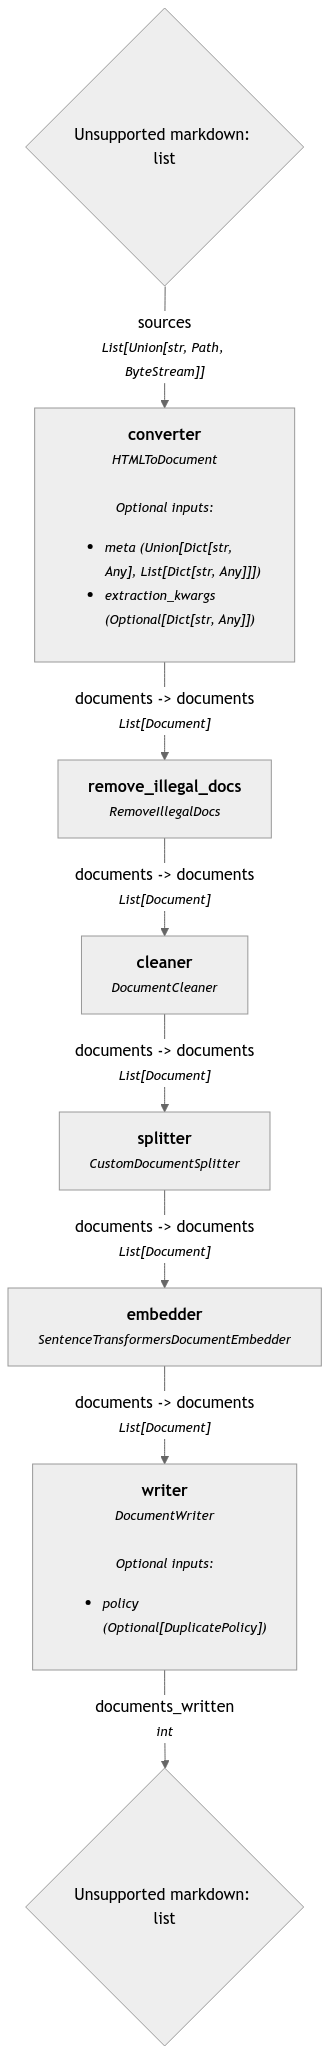
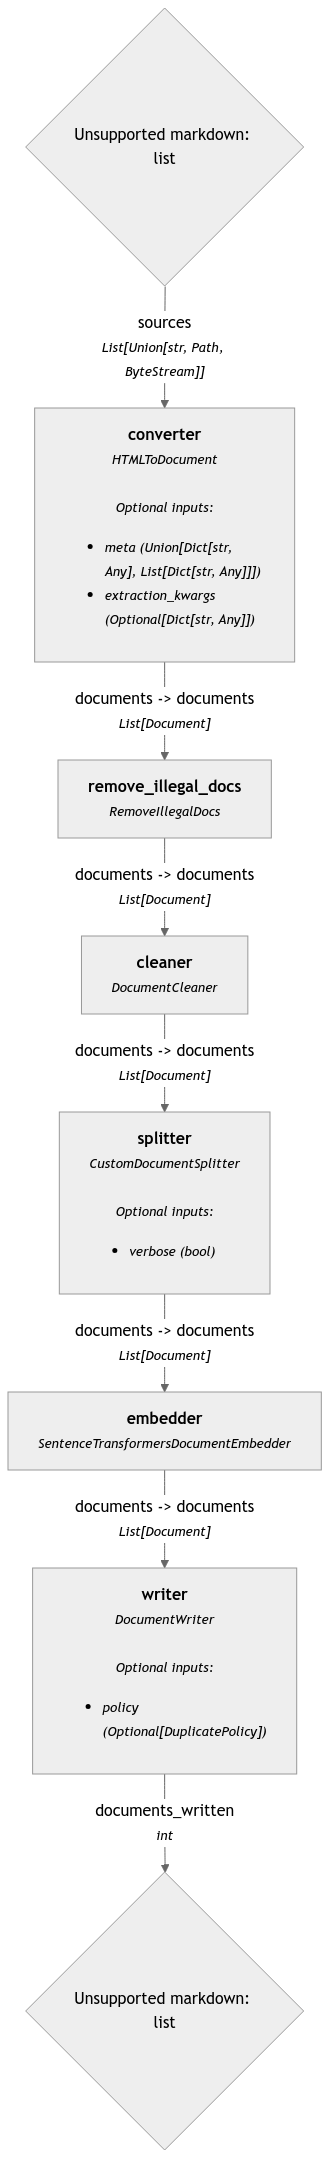
Document Splitter reports first paragraph of each section if verbose = True

diff --git a/document_processor.py b/document_processor.py
@@ -44,9 +44,26 @@ class CustomDocumentSplitter:
         self.max_seq_length = self.model.get_max_seq_length()
 
     @component.output_types(documents=List[Document])
-    def run(self, documents: List[Document]) -> dict:
+    def run(self, documents: List[Document], verbose: bool = False) -> dict:
         processed_docs = []
+        last_section_num = None  # Track the last section number
+
         for doc in documents:
+            # Extract section_num and paragraph_num from the metadata
+            section_num = int(doc.meta.get("section_num"))
+            paragraph_num = int(doc.meta.get("paragraph_num"))
+
+            # If verbose is True, print the content when section_num changes and paragraph_num == 1
+            if verbose and section_num != last_section_num and paragraph_num == 1:
+                print(f"New section: {section_num}")
+                print(f"Book Title: {doc.meta.get('book_title')}")
+                print(f"Section Title: {doc.meta.get('title')}")
+                print(f"Content: {doc.content}\n")
+
+            # Update the last_section_num
+            last_section_num = section_num
+
+            # Process and extend documents
             processed_docs.extend(self.process_document(doc))
 
         print(f"Processed {len(documents)} documents into {len(processed_docs)} documents")
@@ -400,7 +417,7 @@ class DocumentProcessor:
 
 
 def main() -> None:
-    epub_file_path: str = "documents\Karl Popper - The Myth of the Framework-Taylor and Francis.epub"
+    epub_file_path: str = "documents"
     postgres_password = get_secret(r'D:\Documents\Secrets\postgres_password.txt')
     # noinspection SpellCheckingInspection
     processor: DocumentProcessor = DocumentProcessor(
@@ -425,7 +442,3 @@ def main() -> None:
 
 if __name__ == "__main__":
     main()
-
-# TODO Error: Writing documents to document store
-# Token indices sequence length is longer than the specified maximum sequence length for this model (560 > 512). Running this sequence through the model will result in indexing errors
-# What is causing that error since I check for the length of the tokens before splitting the document?
